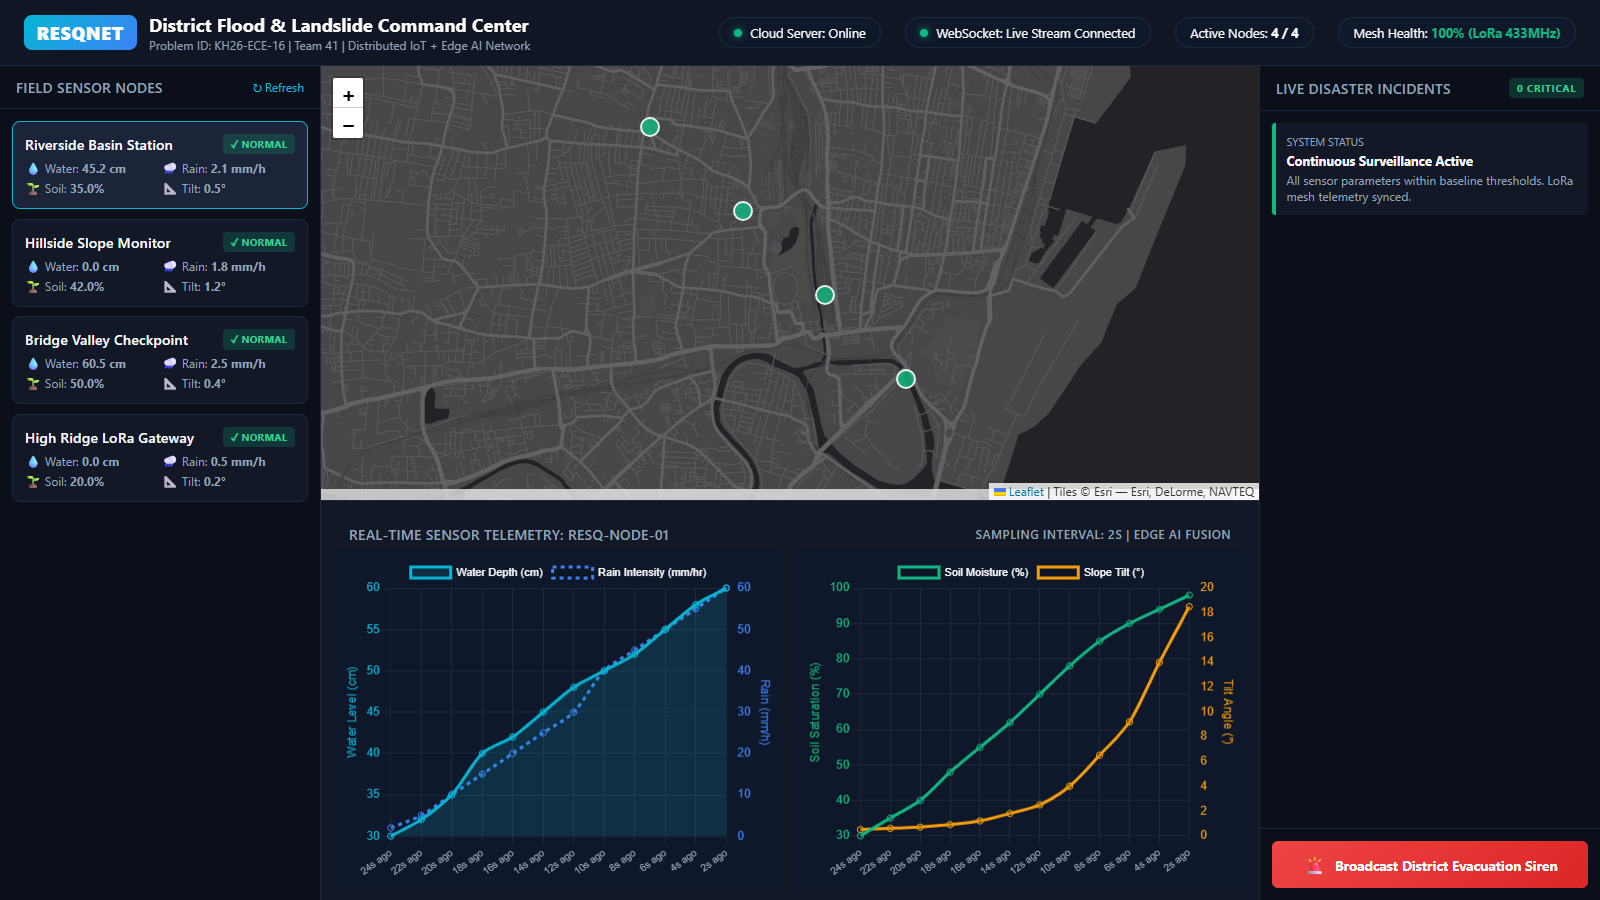
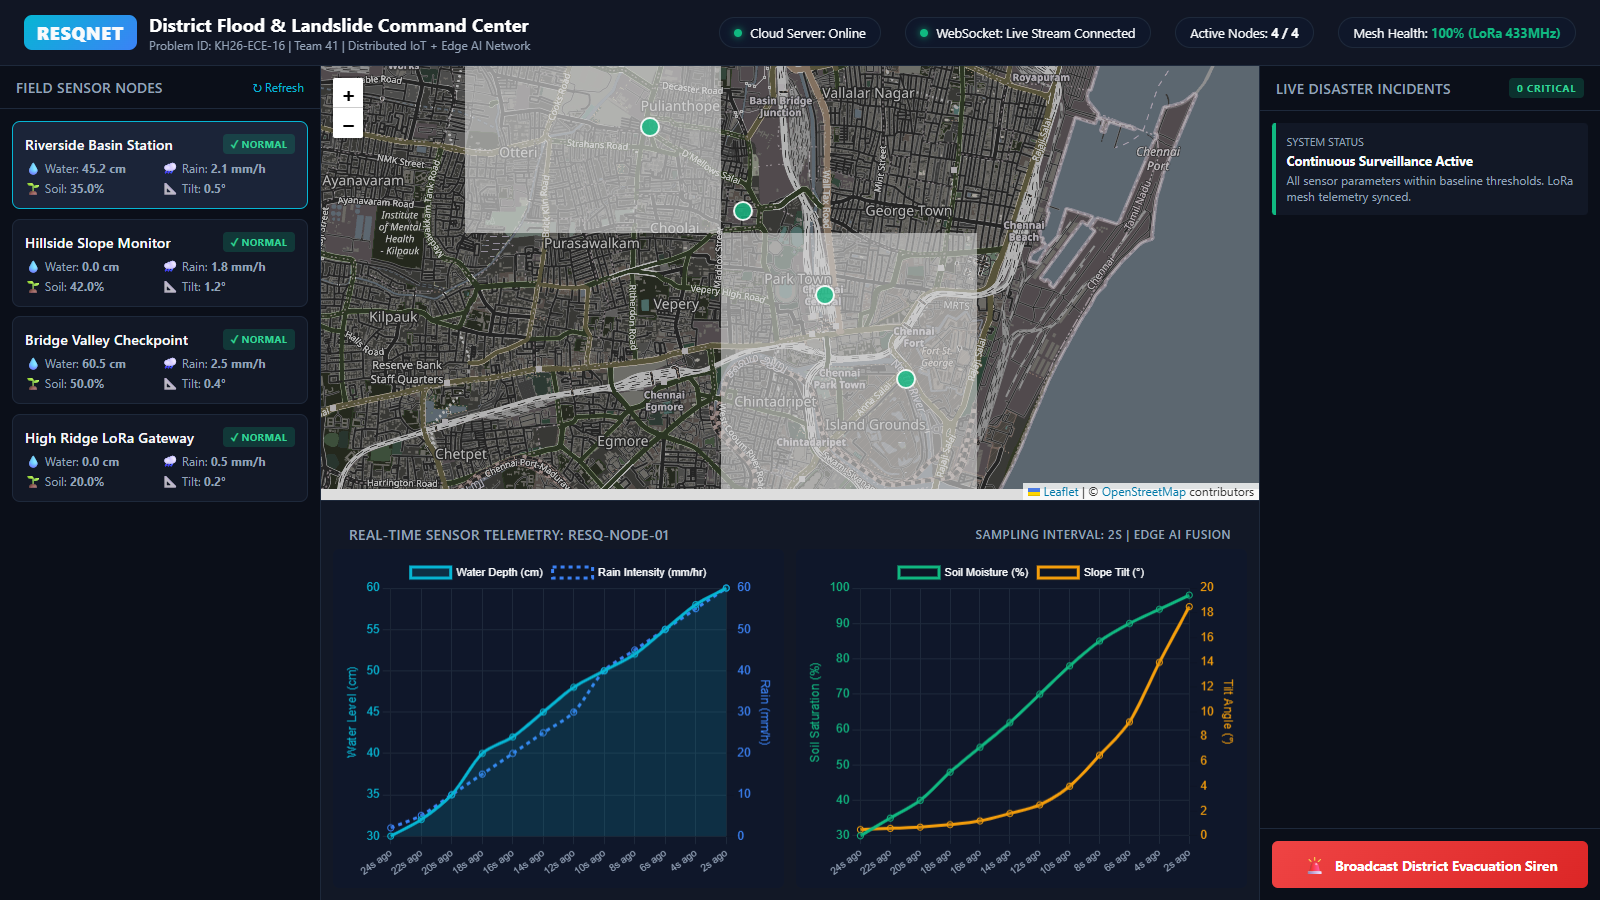
Update map basemap to high-contrast dark layer with zero API key requirement

Changed region(s): [[0.1875, 0.0622, 0.8125, 0.56]]

diff --git a/dashboard/app.js b/dashboard/app.js
@@ -25,10 +25,10 @@ let nodesData = [
 function initMap() {
   map = L.map('map-container').setView([13.0860, 13.0860 > 50 ? 80.2700 : 80.2720], 14);
 
-  // Clean high-contrast Dark GIS Map layer
-  L.tileLayer('https://server.arcgisonline.com/ArcGIS/rest/services/Canvas/World_Dark_Gray_Base/MapServer/tile/{z}/{y}/{x}', {
-    attribution: 'Tiles &copy; Esri &mdash; Esri, DeLorme, NAVTEQ',
-    maxZoom: 16
+  // Free OpenStreetMap (No API Key Required)
+  L.tileLayer('https://tile.openstreetmap.org/{z}/{x}/{y}.png', {
+    attribution: '&copy; <a href="https://www.openstreetmap.org/copyright">OpenStreetMap</a> contributors',
+    maxZoom: 19
   }).addTo(map);
 
   updateMapMarkers();

diff --git a/dashboard/styles.css b/dashboard/styles.css
@@ -273,6 +273,11 @@ header {
 
 .btn-emergency:hover { opacity: 0.9; }
 
+/* Clean Dark GIS Map filter for OpenStreetMap (No API Key Required) */
+.leaflet-tile-pane {
+  filter: brightness(0.6) invert(1) contrast(3) hue-rotate(200deg) saturate(0.3) brightness(0.7);
+}
+
 /* Custom Leaflet Map styling */
 .leaflet-popup-content-wrapper {
   background: #1e293b;
